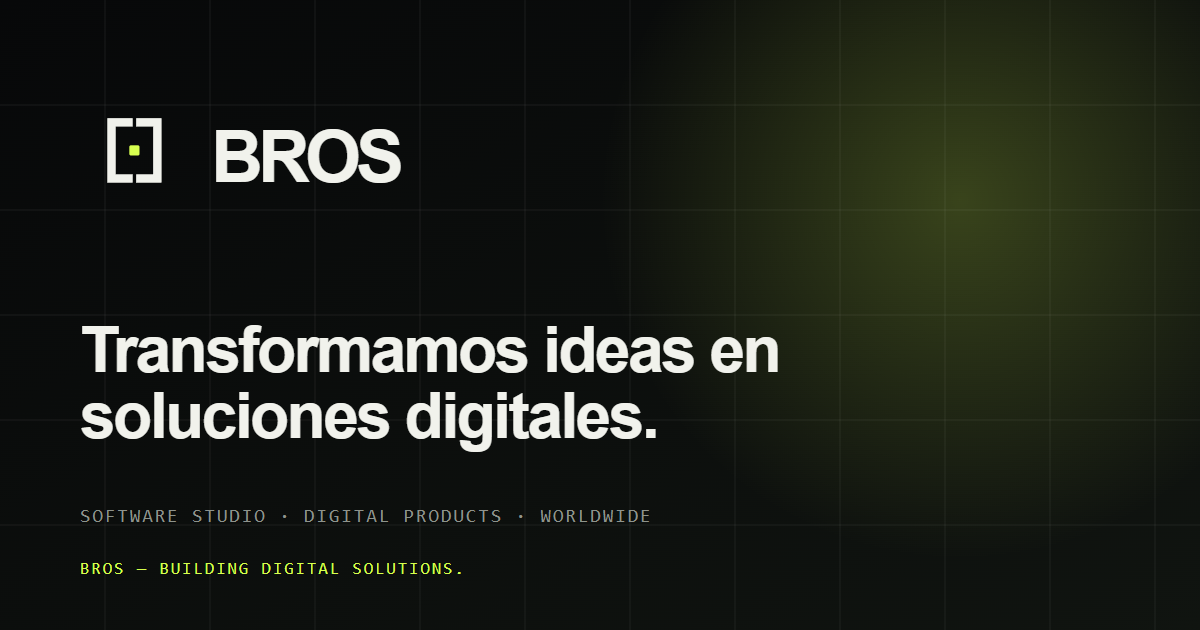
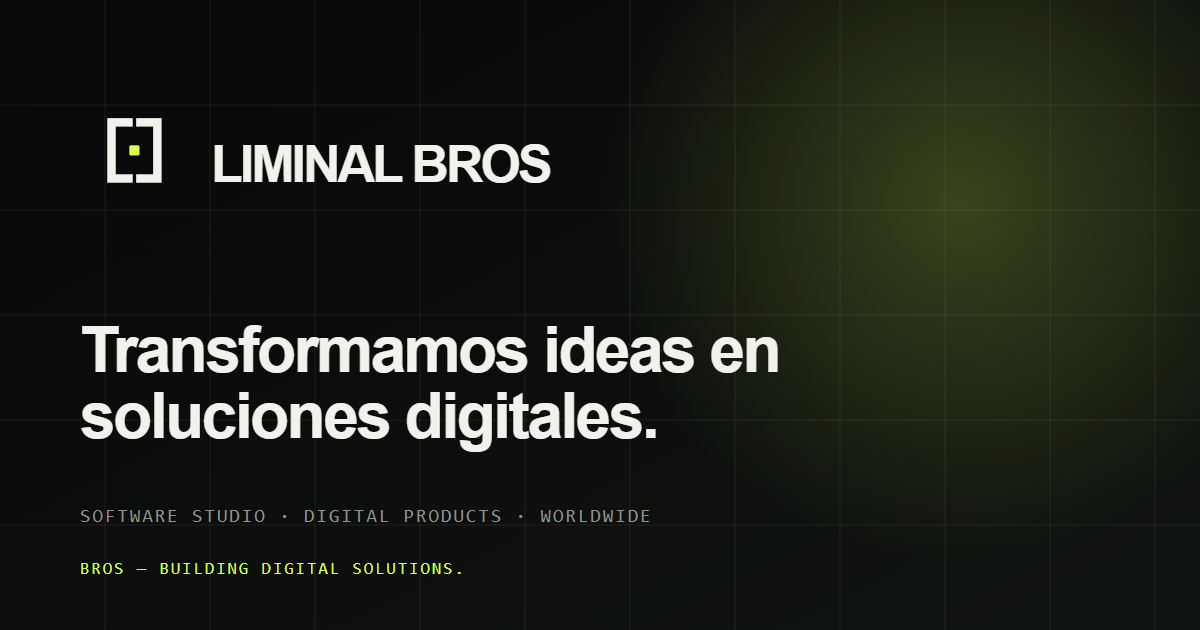
feat: rebrand LIMINAL BROS, add i18n, project pages, founder profiles

Changed region(s): [[0.1542, 0.181, 0.4625, 0.3016]]

diff --git a/src/components/About.tsx b/src/components/About.tsx
@@ -1,4 +1,4 @@
-import { ArrowUpRight, Check, Fingerprint, Users } from "lucide-react";
+import { ArrowUpRight, Check, Fingerprint, Linkedin, Users } from "lucide-react";
 import { useT } from "../i18n";
 import { Reveal } from "./Reveal";
 import { SectionHeading } from "./SectionHeading";
@@ -35,21 +35,18 @@ export function About() {
               </p>
 
               <div className="mt-9 divide-y divide-white/[0.08] border-y border-white/[0.08]">
-                {t.about.approachItems.map((item) => (
-                  <div key={item.label} className="flex items-center justify-between py-4">
-                    <span className="flex items-center gap-2.5 text-[12px] text-muted">
-                      {item.label === "Equipo" || item.label === "Team" || item.label === "Team" ? (
-                        <Users size={13} strokeWidth={1.5} className="text-white/35" />
-                      ) : item.label === "Enfoque" || item.label === "Focus" || item.label === "Fokus" ? (
-                        <Fingerprint size={13} strokeWidth={1.5} className="text-white/35" />
-                      ) : (
-                        <Check size={13} strokeWidth={1.5} className="text-white/35" />
-                      )}
-                      {item.label}
-                    </span>
-                    <span className="text-[12px] text-white/65">{item.value}</span>
-                  </div>
-                ))}
+                {t.about.approachItems.map((item, index) => {
+                  const Icon = index === 0 ? Users : index === 1 ? Fingerprint : Check;
+                  return (
+                    <div key={item.label} className="flex items-center justify-between py-4">
+                      <span className="flex items-center gap-2.5 text-[12px] text-muted">
+                        <Icon size={13} strokeWidth={1.5} className="text-white/35" />
+                        {item.label}
+                      </span>
+                      <span className="text-[12px] text-white/65">{item.value}</span>
+                    </div>
+                  );
+                })}
               </div>
 
               <a
@@ -107,9 +104,17 @@ export function About() {
                       <span className="font-mono text-[9px] uppercase tracking-[0.16em] text-acid/80">
                         {profile.role}
                       </span>
-                      <span className="font-mono text-[8px] uppercase tracking-[0.14em] text-white/20">
-                        Profile / {profile.id}
-                      </span>
+                      {profile.linkedin && (
+                        <a
+                          href={profile.linkedin}
+                          target="_blank"
+                          rel="noopener noreferrer"
+                          aria-label={`${profile.name} en LinkedIn`}
+                          className="flex h-8 w-8 items-center justify-center rounded-full border border-white/10 text-white/45 transition-all hover:border-acid/30 hover:text-acid"
+                        >
+                          <Linkedin size={13} strokeWidth={1.5} />
+                        </a>
+                      )}
                     </div>
 
                     <h3 className="mt-4 text-[clamp(1.6rem,3vw,2rem)] font-medium tracking-[-0.045em]">

diff --git a/src/i18n/es.ts b/src/i18n/es.ts
@@ -198,18 +198,22 @@ export const es: Translations = {
       {
         id: "01",
         name: "José Valentino Boschiazzo",
-        role: "Co-Fundador · Ingeniero Electrónico",
+        role: "Co-Fundador & CEO",
         description:
           "Ingeniero electrónico con experiencia en automatización industrial, validación en campo y desarrollo de software. Ha trabajado en Europa inspeccionando motores de combustión, diseñando herramientas internas en Python y programando PLCs y microcontroladores. Combina mecánica, electrónica y software para construir soluciones técnicas robustas.",
         specialties: ["Automatización", "Embedded", "Python", "E-Plan", "TIA Portal"],
+        image: "/team/jose.png",
+        linkedin: "https://www.linkedin.com/in/jvbosch/",
       },
       {
         id: "02",
         name: "Federico Fantacone",
-        role: "Co-Fundador · Full Stack Developer",
+        role: "Co-Fundador & CEO",
         description:
           "Desarrollador Full Stack Semi-Senior especializado en .NET, C# y Microsoft Azure. Trabaja en Accenture diseñando y manteniendo aplicaciones empresariales, APIs, bases de datos e infraestructura cloud, con foco en arquitectura limpia y soluciones escalables.",
         specialties: ["Backend", ".NET", "Azure", "Arquitectura", "APIs"],
+        image: "/team/federico.jpg",
+        linkedin: "https://www.linkedin.com/in/federico-fantacone/",
       },
     ],
     steps: [
@@ -227,9 +231,9 @@ export const es: Translations = {
       email: "Email",
       whatsapp: "WhatsApp",
       linkedin: "LinkedIn",
-      linkedinValue: "LIMINAL BROS / Software Studio",
+      linkedinValue: "Federico Fantacone",
     },
-    responseTime: "Buenos Aires · GMT-3 · Respuesta en 1–2 días hábiles",
+    responseTime: "Austria · GMT+1 / Argentina · GMT-3 · Respuesta en 1–2 días hábiles",
     briefTitle: "Brief inicial",
     briefSubtitle: "Contanos sobre tu proyecto",
     briefIndex: "/ 01",

diff --git a/src/i18n/de.ts b/src/i18n/de.ts
@@ -198,18 +198,22 @@ export const de: Translations = {
       {
         id: "01",
         name: "José Valentino Boschiazzo",
-        role: "Co-Founder · Elektronikingenieur",
+        role: "Co-Founder & CEO",
         description:
           "Elektronikingenieur mit Erfahrung in industrieller Automatisierung, Feldvalidierung und Softwareentwicklung. Er hat in Europa Verbrennungsmotoren inspiziert, interne Python-Werkzeuge entwickelt und PLCs sowie Mikrocontroller programmiert. Er verbindet Mechanik, Elektronik und Software zu robusten technischen Lösungen.",
         specialties: ["Automatisierung", "Embedded", "Python", "E-Plan", "TIA Portal"],
+        image: "/team/jose.png",
+        linkedin: "https://www.linkedin.com/in/jvbosch/",
       },
       {
         id: "02",
         name: "Federico Fantacone",
-        role: "Co-Founder · Full Stack Developer",
+        role: "Co-Founder & CEO",
         description:
           "Semi-Senior Full Stack Developer mit Schwerpunkt auf .NET, C# und Microsoft Azure. Er arbeitet bei Accenture an der Entwicklung und Pflege von Unternehmensanwendungen, APIs, Datenbanken und Cloud-Infrastruktur mit Fokus auf saubere Architektur und skalierbare Lösungen.",
         specialties: ["Backend", ".NET", "Azure", "Architektur", "APIs"],
+        image: "/team/federico.jpg",
+        linkedin: "https://www.linkedin.com/in/federico-fantacone/",
       },
     ],
     steps: [
@@ -227,9 +231,9 @@ export const de: Translations = {
       email: "E-Mail",
       whatsapp: "WhatsApp",
       linkedin: "LinkedIn",
-      linkedinValue: "LIMINAL BROS / Software Studio",
+      linkedinValue: "Federico Fantacone",
     },
-    responseTime: "Buenos Aires · GMT-3 · Antwort innerhalb von 1–2 Werktagen",
+    responseTime: "Österreich · GMT+1 / Argentinien · GMT-3 · Antwort innerhalb von 1–2 Werktagen",
     briefTitle: "Erstes Briefing",
     briefSubtitle: "Erzählen Sie uns von Ihrem Projekt",
     briefIndex: "/ 01",

diff --git a/src/i18n/en.ts b/src/i18n/en.ts
@@ -198,18 +198,22 @@ export const en: Translations = {
       {
         id: "01",
         name: "José Valentino Boschiazzo",
-        role: "Co-Founder · Electronics Engineer",
+        role: "Co-Founder & CEO",
         description:
           "Electronics engineer with experience in industrial automation, field validation and software development. He has worked across Europe inspecting combustion engines, designing internal Python tools and programming PLCs and microcontrollers. He bridges mechanics, electronics and software to build robust technical solutions.",
         specialties: ["Automation", "Embedded", "Python", "E-Plan", "TIA Portal"],
+        image: "/team/jose.png",
+        linkedin: "https://www.linkedin.com/in/jvbosch/",
       },
       {
         id: "02",
         name: "Federico Fantacone",
-        role: "Co-Founder · Full Stack Developer",
+        role: "Co-Founder & CEO",
         description:
           "Semi-Senior Full Stack Developer specialized in .NET, C# and Microsoft Azure. He works at Accenture designing and maintaining enterprise applications, APIs, databases and cloud infrastructure, with a focus on clean architecture and scalable solutions.",
         specialties: ["Backend", ".NET", "Azure", "Architecture", "APIs"],
+        image: "/team/federico.jpg",
+        linkedin: "https://www.linkedin.com/in/federico-fantacone/",
       },
     ],
     steps: [
@@ -227,9 +231,9 @@ export const en: Translations = {
       email: "Email",
       whatsapp: "WhatsApp",
       linkedin: "LinkedIn",
-      linkedinValue: "LIMINAL BROS / Software Studio",
+      linkedinValue: "Federico Fantacone",
     },
-    responseTime: "Buenos Aires · GMT-3 · Reply within 1–2 business days",
+    responseTime: "Austria · GMT+1 / Argentina · GMT-3 · Reply within 1–2 business days",
     briefTitle: "Initial brief",
     briefSubtitle: "Tell us about your project",
     briefIndex: "/ 01",

diff --git a/src/components/Navbar.tsx b/src/components/Navbar.tsx
@@ -163,7 +163,7 @@ export function Navbar() {
             </nav>
 
             <div className="flex items-center gap-3">
-              <LanguageSwitcher className="hidden sm:flex" />
+              <LanguageSwitcher className="flex" />
               <a
                 href="/#contacto"
                 className="group hidden items-center gap-2 rounded-full bg-bone px-5 py-2.5 text-[12px] font-medium text-ink transition-all duration-300 hover:bg-acid sm:inline-flex"

diff --git a/src/data/site.ts b/src/data/site.ts
@@ -34,8 +34,8 @@ export const site = {
   email: "hola@bros.studio",
   whatsapp: "5491100000000",
   whatsappDisplay: "+54 9 11 0000 0000",
-  linkedin: "https://www.linkedin.com/company/bros-studio",
-  location: "Buenos Aires, Argentina",
+  linkedin: "https://www.linkedin.com/in/federico-fantacone/",
+  location: "Austria · Argentina",
   availability: "Disponibles para nuevos proyectos",
   /**
    * Optional form endpoint (Formspree, Basin, etc.).

diff --git a/src/components/Hero.tsx b/src/components/Hero.tsx
@@ -32,7 +32,7 @@ export function Hero() {
             <span className="eyebrow text-white/65">{t.hero.eyebrow}</span>
           </div>
           <div className="hidden items-center gap-4 sm:flex">
-            <span className="eyebrow">Buenos Aires</span>
+            <span className="eyebrow">Austria</span>
             <span className="h-px w-5 bg-white/20" />
             <span className="eyebrow">Worldwide</span>
           </div>

diff --git a/src/i18n/types.ts b/src/i18n/types.ts
@@ -35,6 +35,7 @@ export interface ProfileItem {
   description: string;
   specialties: string[];
   image?: string;
+  linkedin?: string;
 }
 
 export interface StepItem {
